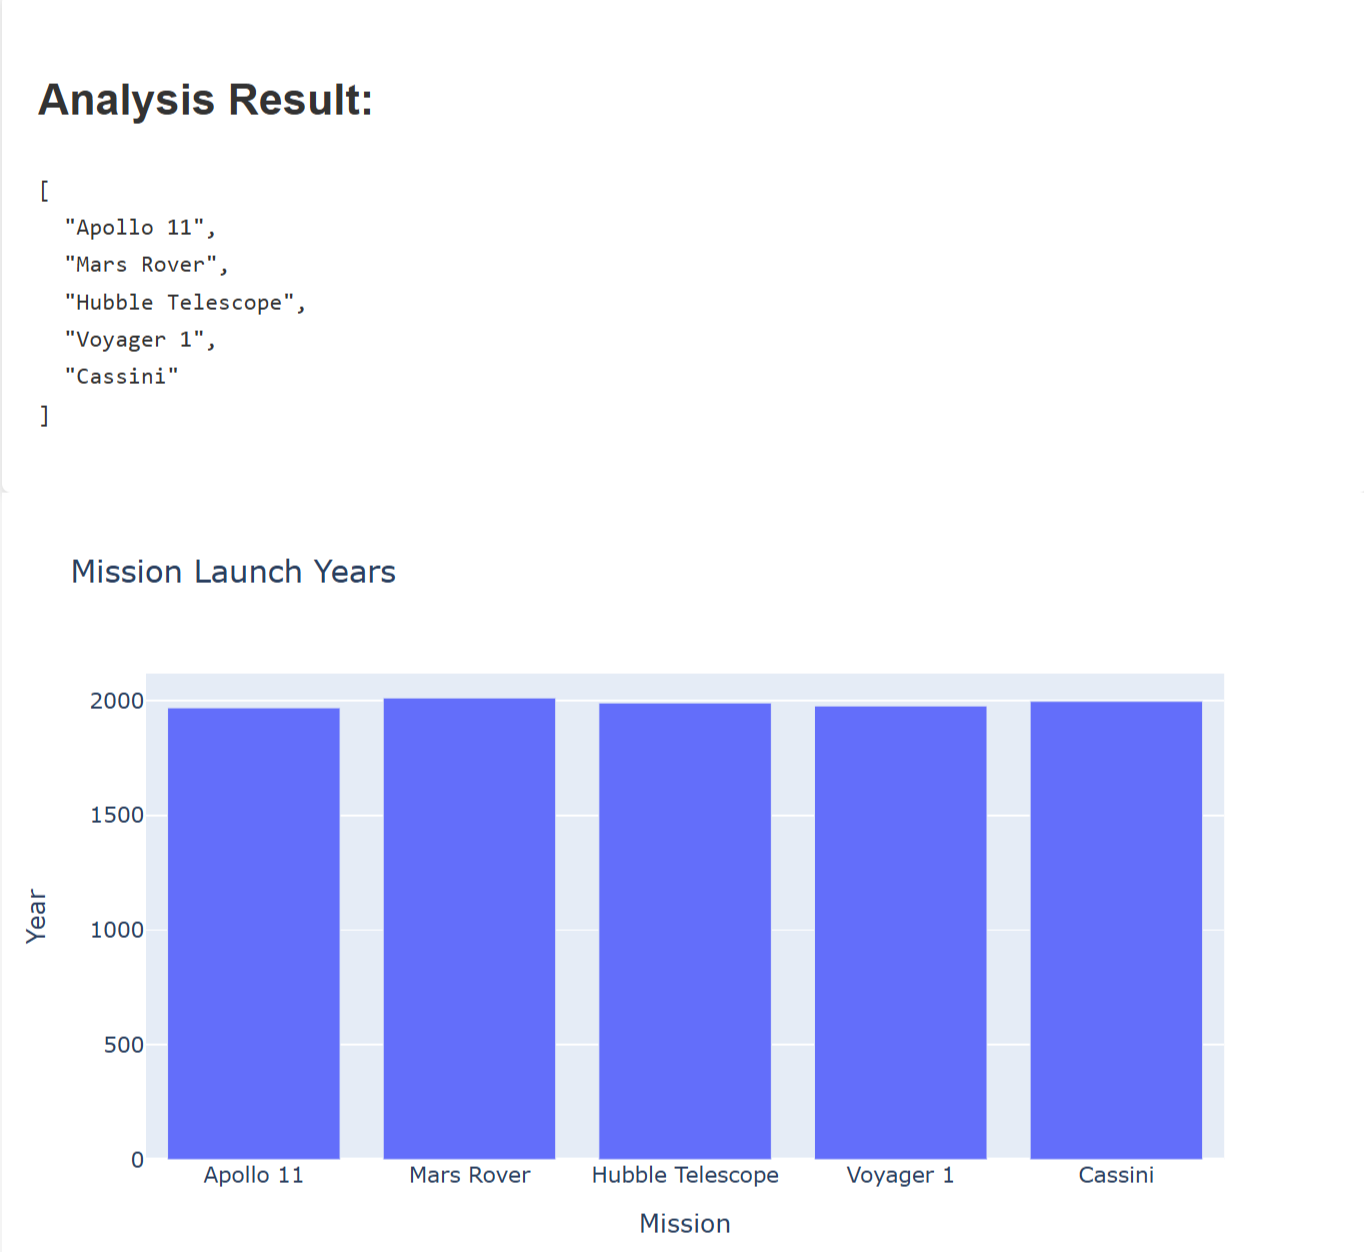
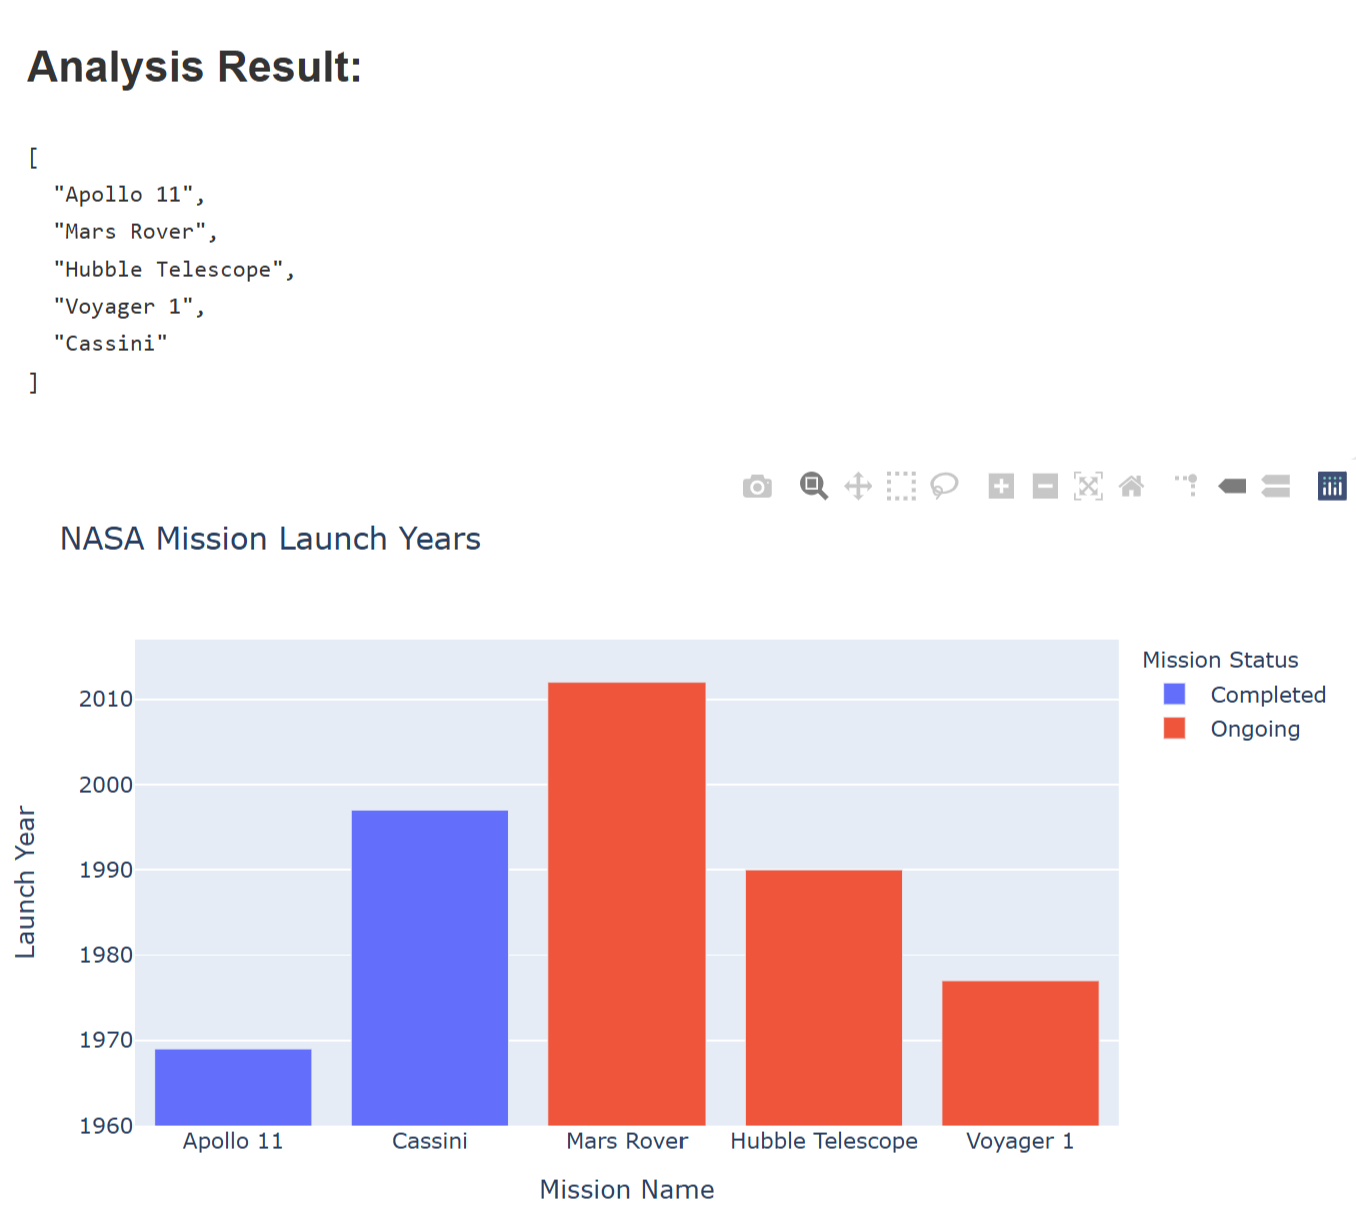
Agent query: Can you test the "Show mission launch years" query and describe the visualization you see? Does it show a scatter plot with years on the x-axis and mission names on the y-axis, color-coded by status, and with hover information?

diff --git a/utils/data_processor.py b/utils/data_processor.py
@@ -36,18 +36,23 @@ def process_query(query: str) -> Union[List, Dict]:
         
         # Create visualization
         if 'year' in query.lower():
-            fig = px.bar(df, x='Mission', y='Year', 
-                         title='NASA Mission Launch Years',
-                         labels={'Mission': 'Mission Name', 'Year': 'Launch Year'},
-                         color='Status',
-                         hover_data=['Description'])
+            fig = px.scatter(df, x='Year', y='Mission', 
+                             title='NASA Mission Launch Years',
+                             labels={'Year': 'Launch Year', 'Mission': 'Mission Name'},
+                             color='Status',
+                             hover_data=['Description'],
+                             size_max=20)
+            fig.update_traces(marker=dict(size=12))
             fig.update_layout(
-                yaxis_range=[1960, max(df['Year']) + 5],
-                legend_title_text='Mission Status'
+                xaxis_title='Launch Year',
+                yaxis_title='Mission Name',
+                legend_title_text='Mission Status',
+                height=600,
+                margin=dict(l=50, r=50, t=50, b=50)
             )
             fig.update_traces(
-                hovertemplate="<b>%{x}</b><br>" +
-                              "Launch Year: %{y}<br>" +
+                hovertemplate="<b>%{y}</b><br>" +
+                              "Launch Year: %{x}<br>" +
                               "Status: %{marker.color}<br>" +
                               "Description: %{customdata[0]}<extra></extra>"
             )
